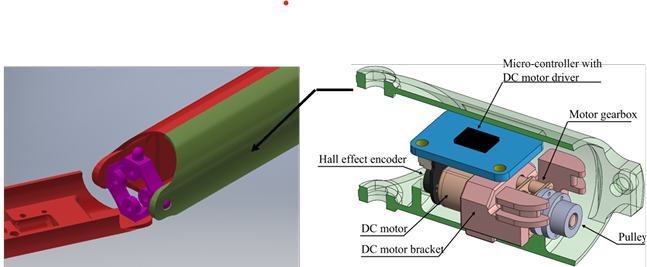
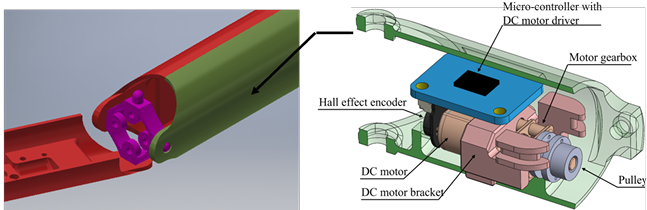
Auto commit: 28-Feb-26 14:03:23.80

diff --git a/bio-robot.html b/bio-robot.html
@@ -176,7 +176,8 @@
 
                     <div class="project-gallery">
                         <img src="images/Sub/IMG_1600 1.jpg" alt="Close-up of articulated joint">
-                        <img src="images/Sub/Screenshot 2026-02-28 134253.png" alt="CAD model of gear mechanism">
+                        <img src="images/Sub/Screenshot 2026-02-28 134253.png" alt="CAD model of gear mechanism"
+                            style="height: 100%; object-fit: cover;">
                     </div>
                     <p>The geared joint allowed adaptive bending while maintaining structural stability inside curved
                         pipe sections.</p>
